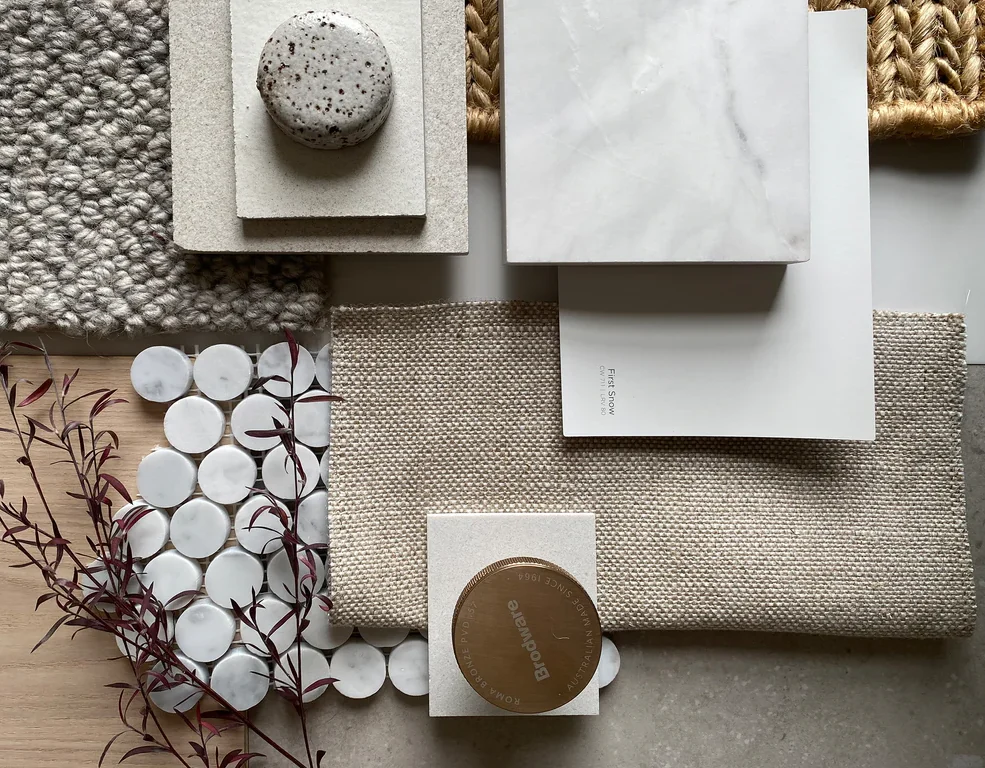
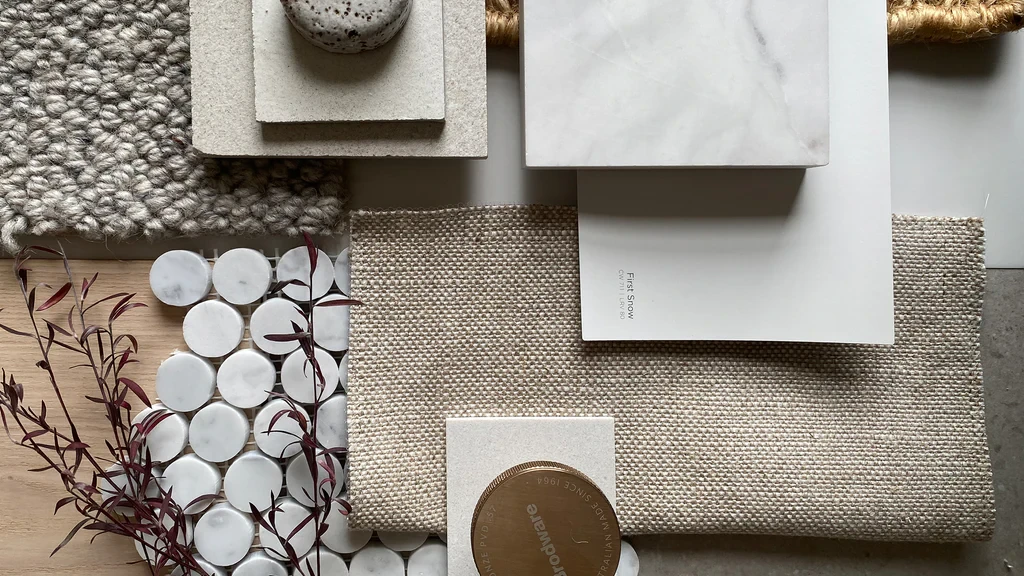
Add files via upload

diff --git a/snippets/portfolio-image-replacement.jsx b/snippets/portfolio-image-replacement.jsx
@@ -1,0 +1,4 @@
+<img
+  src="/images/portfolio/layered-material-palette.webp"
+  alt="Layered material palette"
+/>

diff --git a/README-GITHUB-FIX.md b/README-GITHUB-FIX.md
@@ -1,0 +1,65 @@
+# GitHub fix: replace the Portfolio water image
+
+The first package was an asset upload package. GitHub will not automatically change the website just because a ZIP is uploaded. You need either to overwrite the old water image file, or commit the new image and update the code path that renders the Portfolio menu.
+
+## Fastest fix: overwrite the existing water image
+
+1. In GitHub, open the repo.
+2. Search for the current water image filename or open the component that renders the `Portfolio` menu.
+3. Find the current image path, for example something like:
+   - `/images/portfolio/water.webp`
+   - `/assets/water.jpg`
+   - `/images/selections/layered-material-palette.jpg`
+4. Go to that same folder in GitHub.
+5. Upload `public/images/portfolio/RENAME-TO-EXISTING-WATER-IMAGE-FILENAME.webp` from this package, but rename it to the exact existing water image filename.
+6. Commit the change.
+
+This method usually works because the site code keeps pointing to the same path, but the file content changes.
+
+## Cleaner fix: add the new file and update the code
+
+Upload this file to your repo:
+
+```text
+public/images/portfolio/layered-material-palette.webp
+```
+
+Then find the Portfolio menu/card image and change its image source to:
+
+```text
+/images/portfolio/layered-material-palette.webp
+```
+
+Use this alt text:
+
+```text
+Layered material palette
+```
+
+## JSX example
+
+```jsx
+<img
+  src="/images/portfolio/layered-material-palette.webp"
+  alt="Layered material palette"
+/>
+```
+
+## HTML example
+
+```html
+<img
+  src="/images/portfolio/layered-material-palette.webp"
+  alt="Layered material palette"
+/>
+```
+
+## Common reasons it still does not show
+
+- The ZIP itself was uploaded instead of the image file being placed in the repo folder.
+- The ZIP extracted into a nested folder, so the image ended up at `portfolio-image-replacement-github/public/...` instead of `public/...`.
+- The code still points to the old water image path.
+- The app uses `src/assets`, `app/assets`, or `public/media` instead of `public/images`.
+- The change was committed to the wrong branch.
+- The GitHub Pages, Netlify, or Vercel deployment has not rebuilt yet.
+- The browser is showing a cached image; hard refresh or open an incognito window.